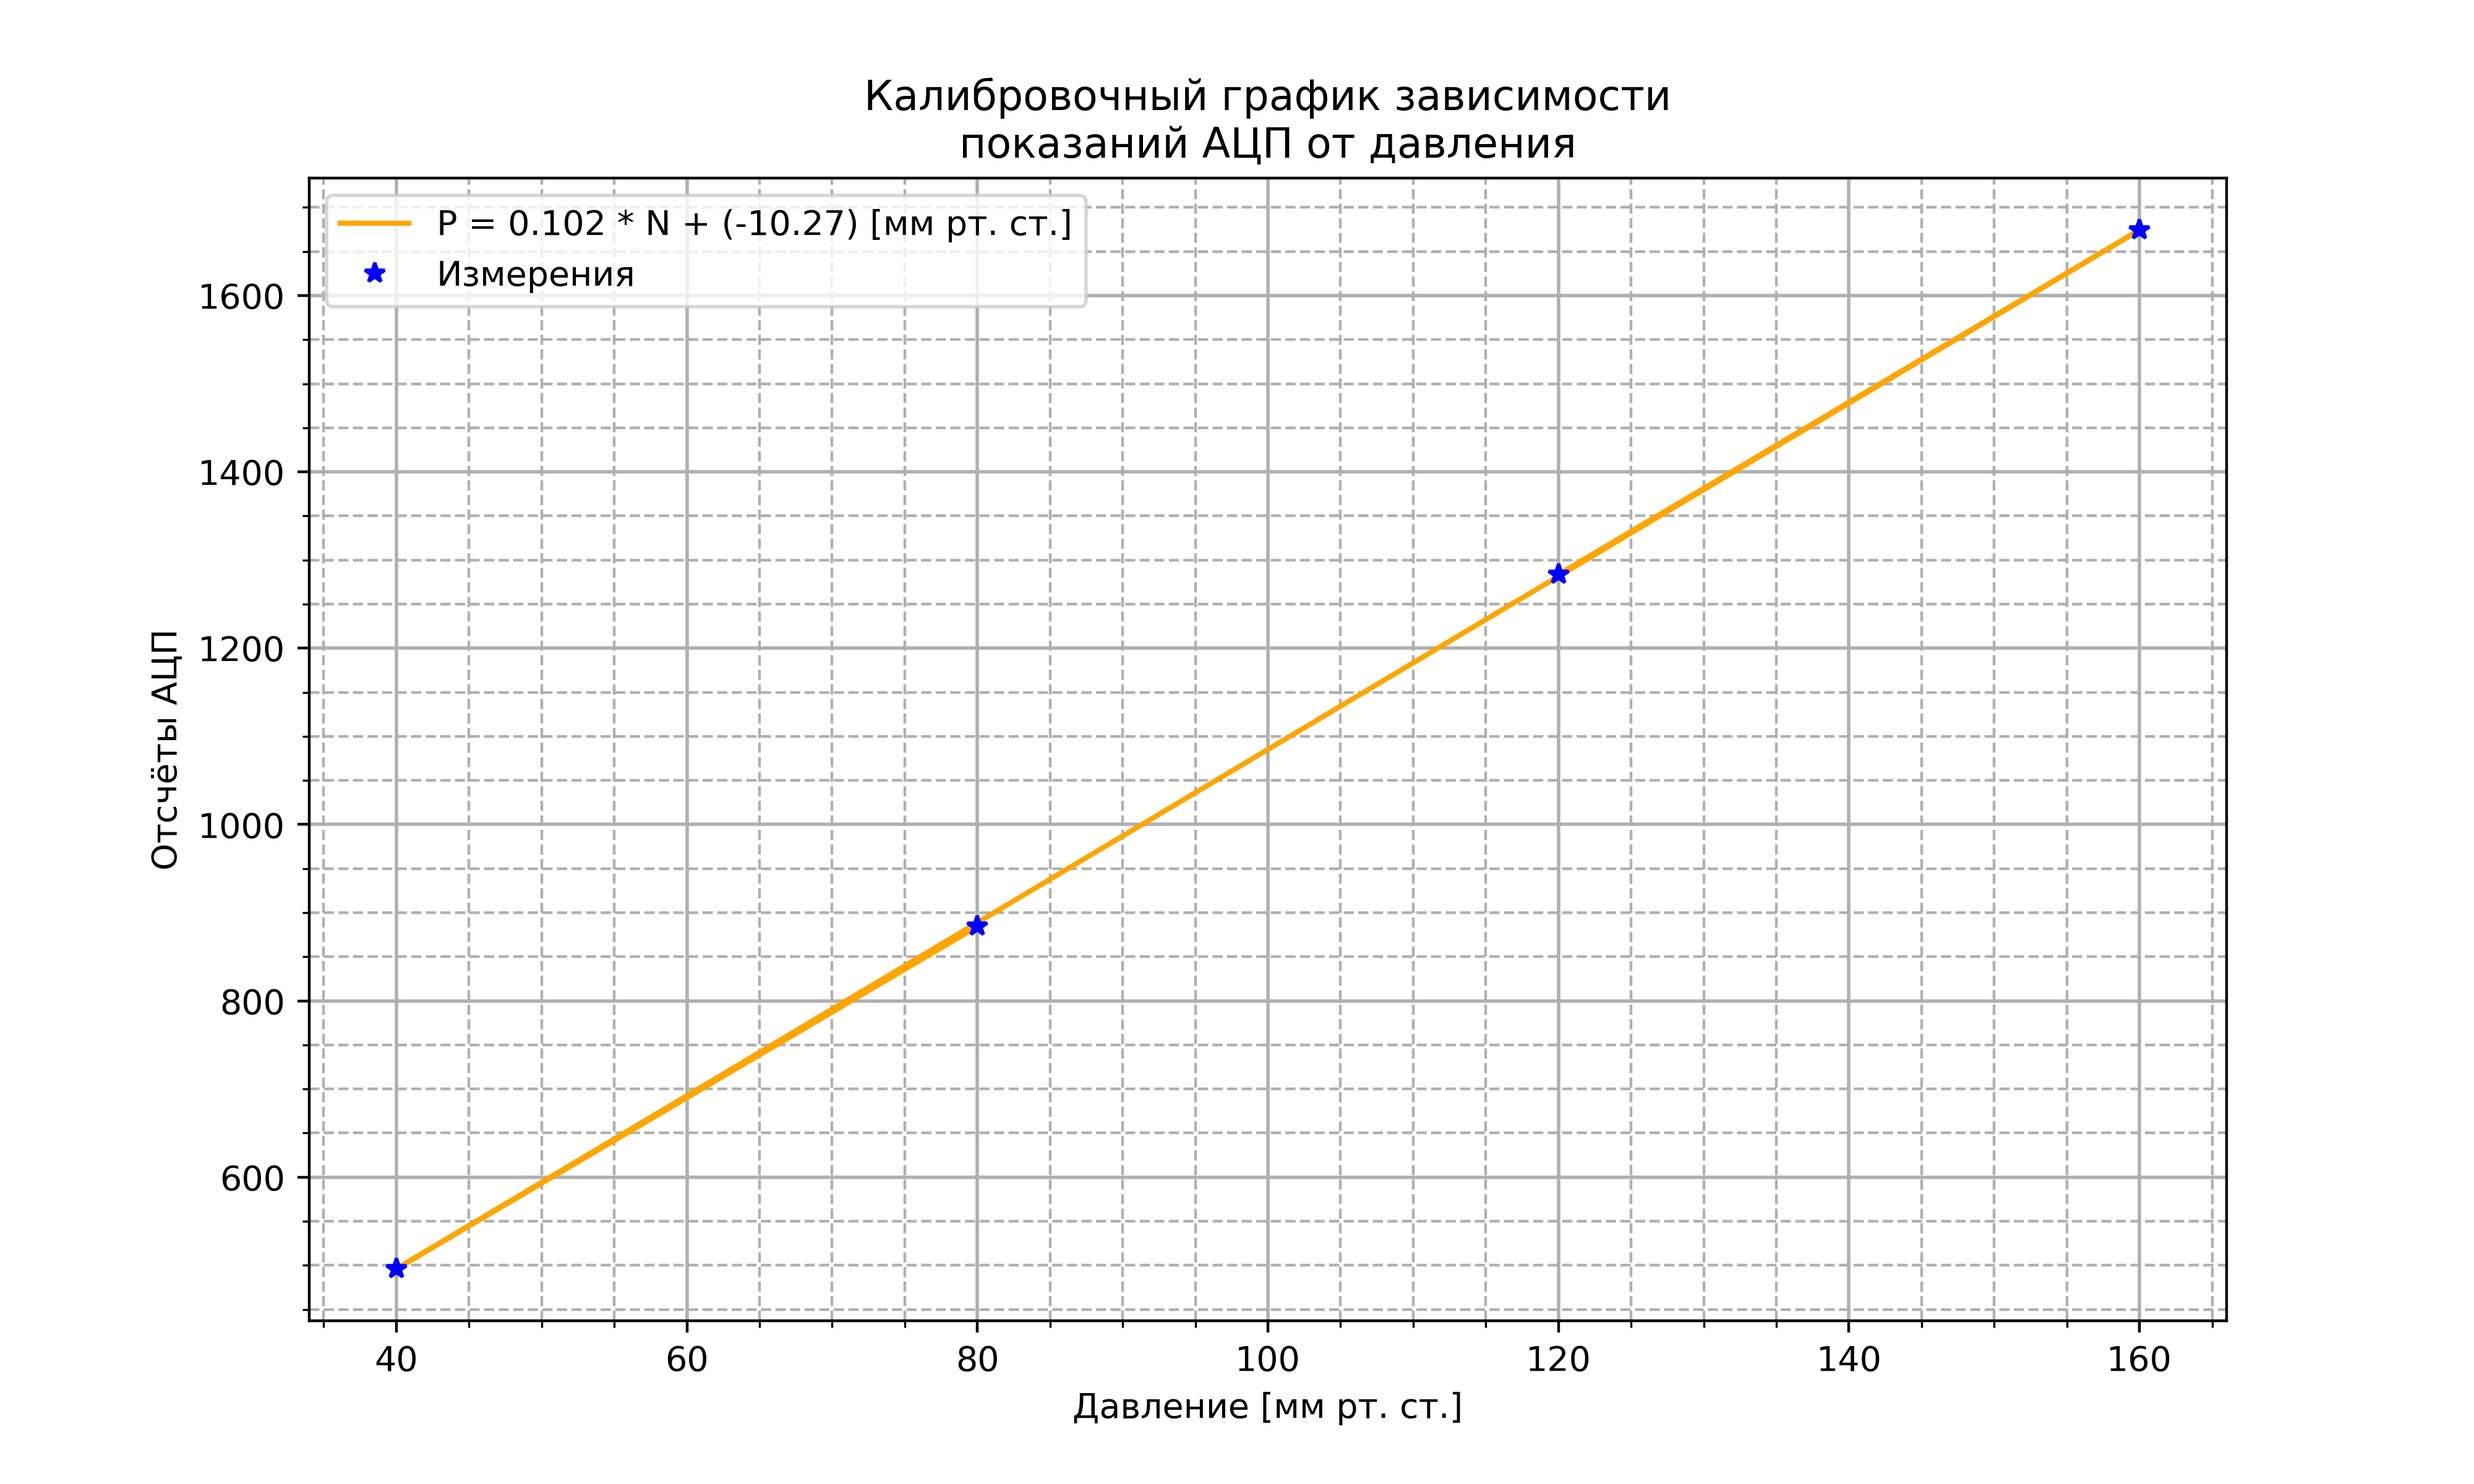
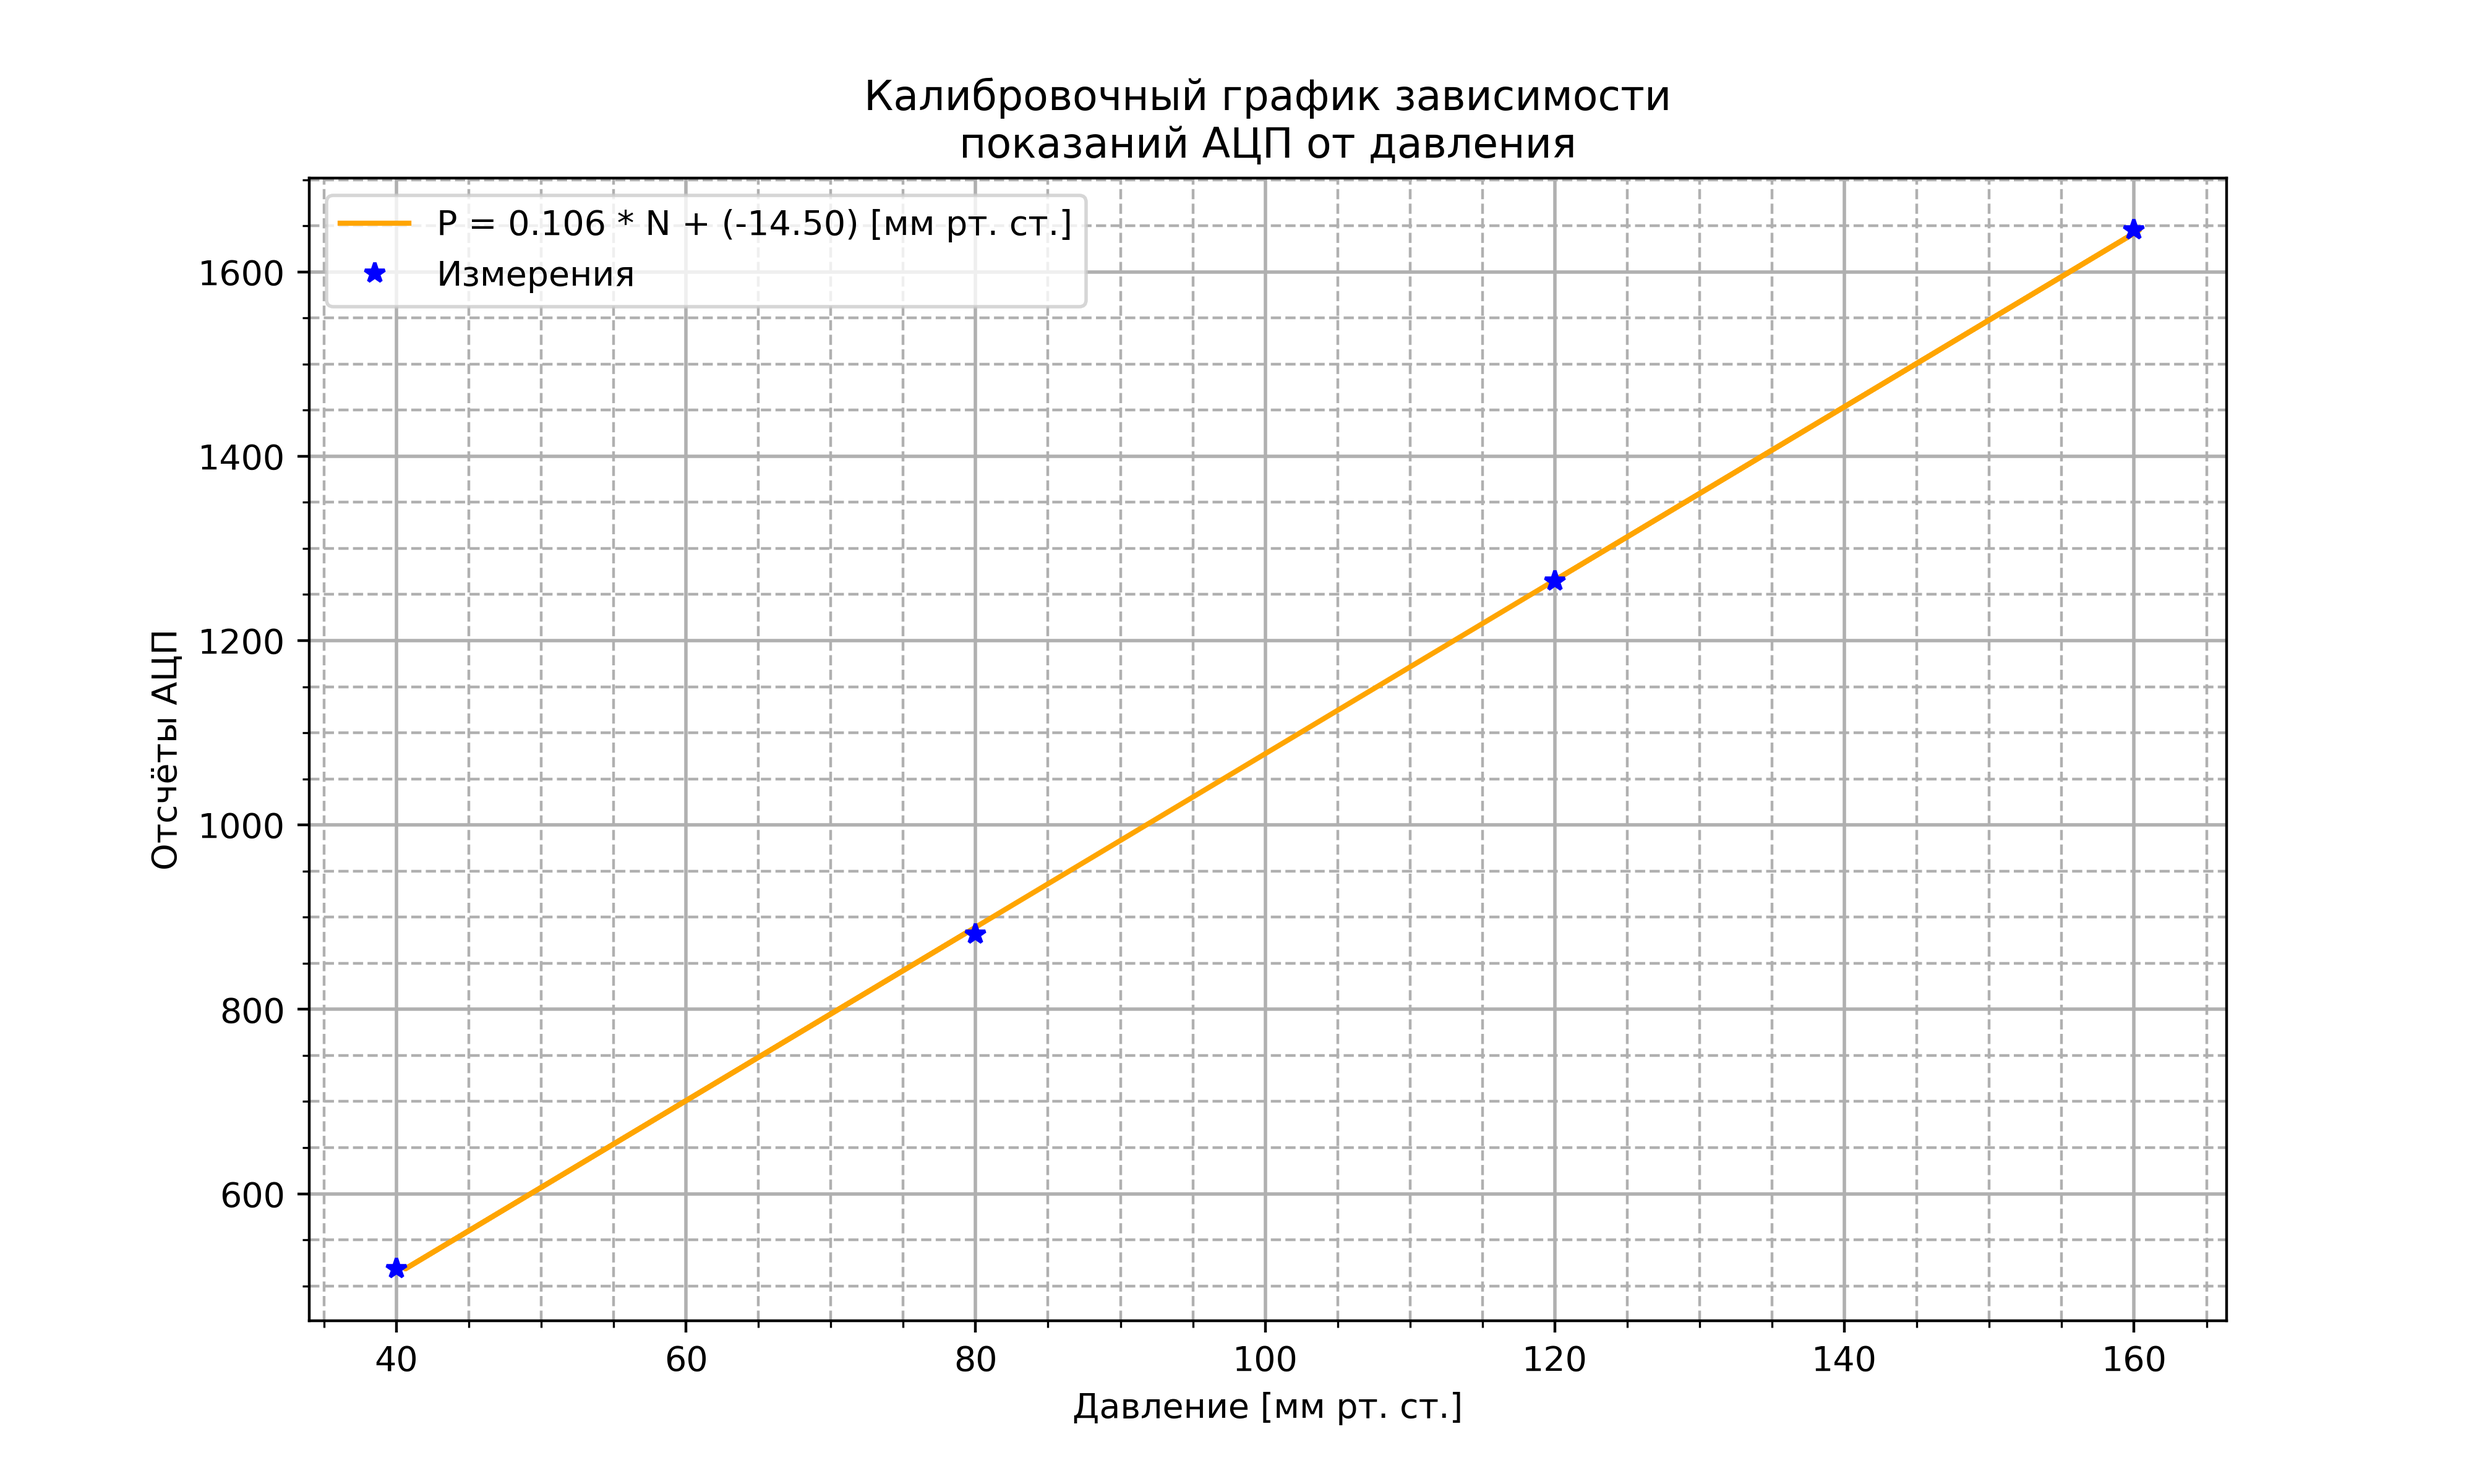
Add files via upload

diff --git a/Blood/scripts/bloodProccessing.py b/Blood/scripts/bloodProccessing.py
@@ -8,7 +8,7 @@ from pathlib import Path
 #   Calibration
 ########################################
 
-dataDir = "data example/calibration/"
+dataDir = "data/calibration/"
 
 ADC = []
 pressure = []
@@ -17,9 +17,10 @@ for file in Path(dataDir).iterdir():
     ADC.append(np.mean(samples))
     pressure.append(int( str(file)[len(dataDir):].split(" ")[0] ))
 
-plotData = [[pressure, ADC] , [pressure, ADC]]
 # factor by polynom
 presFactors =  np.polyfit(ADC, pressure, 1)
+plotData = [[np.polyval(presFactors, ADC), ADC], [pressure, ADC]]
+
 # Calibration Graph
 plotName = "Калибровочный график зависимости\nпоказаний АЦП от давления"
 plotSave = "pressure-calibration"
@@ -36,7 +37,8 @@ import matplotlib.pyplot as plt
 #   Fitness
 ########################################
 
-dataDir = "data example/"
+dataDir = "data/"
+
 xAxisName = "Время [с]"
 file = dataDir + "fitness.txt"
 samples, duration, samplesLen = read(file)
@@ -45,67 +47,43 @@ pressure = np.polyval(presFactors, pressure)
 time = np.arange(samplesLen) * (duration/samplesLen)
 
 #----------------- Pulse -----------------
+for i in range (len(pressure)):
+    if abs(pressure[i] - 140) < 0.05:
+        systole = i
+    if abs(pressure[i] - 110) < 0.05:
+        dyastole = i
+    
+pPres =[]
+pTime = []
+systoleN = systole + round(5 * samplesLen/duration)
+poly = np.polyfit([time[systole], time[systoleN]], [pressure[systole], pressure[systoleN]], 1)
+
+for i in range(systole, systoleN):
+    pTime.append(time[i])
+    pPres.append(pressure[i] - np.polyval(poly, time[i]))
+
+poly = np.polyfit
+
+yAxisName = "Давление [мм рт. ст.]"
+data = [pTime, pPres]
 plotSave = "fitness-pulse.png"
-yAxisName = "Изменение давления в артерии [мм рт. ст.]"
 plotName = "Пульс\nпосле физической нагрузки"
-deltaPres = [1] * (samplesLen)
-sval = pressure[0]
-aftertop = False
-systole = 0
-# Чёрная магия
-sigma = round (0.08 * samplesLen / duration)
-left = np.arange(sigma)
-right = np.arange(sigma)
-p = []
-for i in range(sigma,len(deltaPres)-sigma):
-    k = 0
-    for j in range(i, i-sigma, -1):
-        left[k] = pressure[j]
-        k+=1
-    l = pressure[i] - np.mean(left)
-    k = 0
-    for j in range(i+1, i+sigma):
-        right[k] = np.mean(right)
-        k+=1
-    r = pressure[i-sigma] - pressure[i]
-    if r <= 0 and l >= 0:
-        p.append(i)
+lineName = "Пульс = 108"
 
-pulse = 0
-base = pressure[0]
-CouldBeMax = False
-for i in range(len(deltaPres)):
-    if i in p:
-        base = pressure[i]
-    deltaPres[i] = pressure[i] - base
-    if deltaPres[i] < -0.5:
-        CouldBeMax = True
-    if CouldBeMax and deltaPres[i] >= 0:
-        pulse = pulse + 1
-        CouldBeMax = False
-        if pulse == 5:
-            systole = i
-
-time = np.arange(len(deltaPres)) * (duration/len(deltaPres))
-
-
-lineName = "Пульс — {} [уд/мин]".format(pulse)
 fig = plt.figure(figsize=(10, 6), dpi=200)  
 # Grid
 ax = plt.axes() 
 ax.minorticks_on()
 ax.grid(which='major', linewidth = 1)
 ax.grid(which='minor',linestyle = '--')
-#Plot building
-plt.xlim(0, 20)
-plt.ylim(-10, 1)
-plt.plot(time, deltaPres, color = "orange", label='{}'.format(lineName))
+plt.plot(data[0], data[1], color = "orange", label='{}'.format(lineName))
+
 plt.title(plotName)
 plt.xlabel(xAxisName)
 plt.ylabel(yAxisName)
+
 plt.legend()
 plt.savefig( "plots/" + plotSave)
-
 
 #----------------- Pressure -----------------
 
@@ -114,7 +92,7 @@ yAxisName = "Давление [мм рт. ст.]"
 data = [time, pressure]
 plotSave = "fitness-pressure.png"
 plotName = "Артериальное давление\nпосле физической нагрузки"
-lineName = "Давление"
+lineName = "Давление 140/110"
 
 fig = plt.figure(figsize=(10, 6), dpi=200)  
 # Grid
@@ -123,10 +101,14 @@ ax.minorticks_on()
 ax.grid(which='major', linewidth = 1)
 ax.grid(which='minor',linestyle = '--')
 #Plot building
-plt.xlim(0, 30)
-plt.ylim(50, 190)
+plt.xlim(0, 40)
+plt.ylim(100, 170)
 plt.plot(data[0], data[1], color = "orange", label='{}'.format(lineName))
 plt.plot(time[systole], pressure[systole], color = "red", marker = "*")
+plt.plot(time[dyastole], pressure[dyastole], color = "red", marker = "*")
+ax.annotate("systole", (time[systole], pressure[systole]))
+ax.annotate("dyastole", (time[dyastole], pressure[dyastole]))
+
 plt.title(plotName)
 plt.xlabel(xAxisName)
 plt.ylabel(yAxisName)
@@ -139,7 +121,6 @@ plt.savefig( "plots/" + plotSave)
 #   Rest
 ########################################
 
-dataDir = "data example/"
 xAxisName = "Время [с]"
 file = dataDir + "rest.txt"
 samples, duration, samplesLen = read(file)
@@ -148,64 +129,44 @@ pressure = np.polyval(presFactors, pressure)
 time = np.arange(samplesLen) * (duration/samplesLen)
 
 #----------------- Pulse -----------------
+
+for i in range (len(pressure)):
+    if abs(pressure[i] - 108) < 0.05:
+        systole = i
+    if abs(pressure[i] - 80) < 0.05:
+        dyastole = i
+
+pPres =[]
+pTime = []
+systoleN = systole + round(5 * samplesLen/duration)
+poly = np.polyfit([time[systole], time[systoleN]], [pressure[systole], pressure[systoleN]], 1)
+
+for i in range(systole, systoleN):
+    pTime.append(time[i])
+    pPres.append(pressure[i] - np.polyval(poly, time[i]))
+
+poly = np.polyfit
+
+yAxisName = "Давление [мм рт. ст.]"
+data = [pTime, pPres]
 plotSave = "rest-pulse.png"
-yAxisName = "Изменение давления в артерии [мм рт. ст.]"
 plotName = "Пульс\nдо физической нагрузки"
-deltaPres = [1] * (samplesLen)
-sval = pressure[0]
-aftertop = False
-# Чёрная магия 2
-sigma = round (0.08 * samplesLen / duration)
-left = np.arange(sigma)
-right = np.arange(sigma)
-p = []
-for i in range(sigma,len(deltaPres)-sigma):
-    k = 0
-    for j in range(i, i-sigma, -1):
-        left[k] = pressure[j]
-        k+=1
-    l = pressure[i] - np.mean(left)
-    k = 0
-    for j in range(i+1, i+sigma):
-        right[k] = np.mean(right)
-        k+=1
-    r = pressure[i-sigma] - pressure[i]
-    if r <= 0 and l >= 0:
-        p.append(i)
+lineName = "Пульс = 84"
 
-pulse = 0
-base = pressure[0]
-CouldBeMax = False
-for i in range(len(deltaPres)):
-    if i in p:
-        base = pressure[i]
-    deltaPres[i] = pressure[i] - base
-    if deltaPres[i] < -0.5:
-        CouldBeMax = True
-    if CouldBeMax and deltaPres[i] >= 0:
-        pulse = pulse + 1
-        CouldBeMax = False
-        if pulse == 5:
-            systole = i
-
-lineName = "Пульс — {} [уд/мин]".format(pulse)
 fig = plt.figure(figsize=(10, 6), dpi=200)  
 # Grid
 ax = plt.axes() 
 ax.minorticks_on()
 ax.grid(which='major', linewidth = 1)
 ax.grid(which='minor',linestyle = '--')
-#Plot building
-plt.ylim(-10, 1)
-plt.xlim(0, 20)
-plt.plot(time, deltaPres, color = "orange", label='{}'.format(lineName))
+plt.plot(data[0], data[1], color = "orange", label='{}'.format(lineName))
+
 plt.title(plotName)
 plt.xlabel(xAxisName)
 plt.ylabel(yAxisName)
+
 plt.legend()
 plt.savefig( "plots/" + plotSave)
-
-
 #----------------- Pressure -----------------
 
 time = np.arange(samplesLen) * (duration/samplesLen)
@@ -213,7 +174,7 @@ yAxisName = "Давление [мм рт. ст.]"
 data = [time, pressure]
 plotSave = "rest-pressure.png"
 plotName = "Артериальное давление\nдо физической нагрузки"
-lineName = "Давление"
+lineName = "Давление 108/"
 
 fig = plt.figure(figsize=(10, 6), dpi=200)  
 # Grid
@@ -222,13 +183,18 @@ ax.minorticks_on()
 ax.grid(which='major', linewidth = 1)
 ax.grid(which='minor',linestyle = '--')
 #Plot building
-plt.xlim(0, 30)
-plt.ylim(50, 190)
+plt.xlim(20, 60)
+plt.ylim(80, 130)
 plt.plot(data[0], data[1], color = "orange", label='{}'.format(lineName))
 plt.plot(time[systole], pressure[systole], color = "red", marker = "*")
+plt.plot(time[dyastole], pressure[dyastole], color = "red", marker = "*")
+ax.annotate("systole", (time[systole], pressure[systole]))
+ax.annotate("dyastole", (time[dyastole], pressure[dyastole]))
 plt.title(plotName)
 plt.xlabel(xAxisName)
 plt.ylabel(yAxisName)
 
 plt.legend()
 plt.savefig( "plots/" + plotSave)
+
+print ("done")
